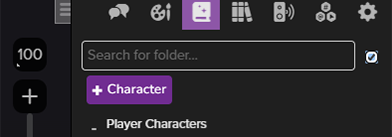
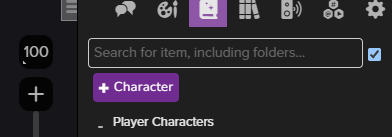
replace folderSearch logic with universal search for item, including folders

diff --git a/content/content.js b/content/content.js
@@ -24,35 +24,29 @@ function createSearchBox() {
     searchBox.style.border = "1px solid #ccc";
     searchBox.style.borderRadius = "4px";
     searchBox.style.fontSize = "14px";
+    
     return searchBox;
 }
 
 function createModeSwitch() {
     const modeSwitchWrapper = document.createElement("div");
-    modeSwitchWrapper.style.margin = "5px 0";
-    modeSwitchWrapper.style.marginLeft = "10px";
+    modeSwitchWrapper.style.margin = "5px";
 
     const label = document.createElement("label");
     label.style.marginRight = "10px";
 
     const modeSwitch = document.createElement("input");
     modeSwitch.type = "checkbox";
-    modeSwitch.id = "searchModeSwitch";
+    modeSwitch.id = "journalSearchModeSwitch";
     modeSwitch.style.marginRight = "5px";
-    
-    const modeText = document.createElement("span");
-    modeText.id = "modeText";
 
     modeSwitch.addEventListener("change", () => toggleSearchMode(modeSwitch.checked));
 
     modeSwitchWrapper.appendChild(label);
     modeSwitchWrapper.appendChild(modeSwitch);
-    modeSwitchWrapper.appendChild(modeText);
 
     return modeSwitchWrapper;
 }
-
-let searchByFolder = false;
 
 function searchFolders(filter) {
     const folders = document.querySelectorAll("#journal .content .dd-folder");
@@ -62,14 +56,18 @@ function searchFolders(filter) {
         if (!titleElement) return;
 
         const title = titleElement.textContent.toLowerCase();
-
-        if (title.includes(filter)) {
-            console.log(`found folder: ${titleElement.textContent}`);
-            folder.style.display = "";
-            printAndShowSubfoldersAndItems(folder, "  ");
-            showParentFolder(folder);
+        const matches = title.includes(filter);
+        
+        if (matches) {
+            showFullFolderHierarchy(folder);
         }
     });
+}
+
+function showFullFolderHierarchy(folder) {
+    folder.style.display = "";
+    showParentFolder(folder);
+    showFolderContentsRecursive(folder);
 }
 
 function showParentFolder(folder) {
@@ -80,27 +78,13 @@ function showParentFolder(folder) {
     }
 }
 
-function printAndShowSubfoldersAndItems(folder, indent) {
+function showFolderContentsRecursive(folder) {
+    folder.style.display = "";
     const subfolders = folder.querySelectorAll(":scope > .dd-list > .dd-folder");
-
-    subfolders.forEach(subfolder => {
-        const subfolderTitle = subfolder.querySelector(".folder-title");
-        if (subfolderTitle) {
-            console.log(`${indent}├─ folder: ${subfolderTitle.textContent}`);
-            subfolder.style.display = "";
-            printAndShowSubfoldersAndItems(subfolder, indent + "  ");
-        }
-    });
+    subfolders.forEach(subfolder => showFolderContentsRecursive(subfolder));
 
     const items = folder.querySelectorAll(":scope > .dd-list > .journalitem");
-
-    items.forEach(item => {
-        const itemTitle = item.querySelector(".namecontainer");
-        if (itemTitle) {
-            console.log(`${indent}└─ Item: ${itemTitle.textContent}`);
-            item.style.display = "";
-        }
-    });
+    items.forEach(item => item.style.display = "");
 }
 
 function searchEntries(filter) {
@@ -120,24 +104,18 @@ function searchEntries(filter) {
 function filterEntries() {
     const filter = document.getElementById("journalSearch").value.toLowerCase();
     
+    searchEntries(filter);
     if (searchByFolder) {
-        searchEntries(filter);
         searchFolders(filter);
-    } else {
-        searchEntries(filter);
     }
 }
 
 function toggleSearchMode(isFolderSearch) {
     searchByFolder = isFolderSearch;
     const searchBox = document.getElementById("journalSearch");
-
-    if (searchByFolder) {
-        searchBox.placeholder = "Search for folder...";
-    } else {
-        searchBox.placeholder = "Search for item...";
-    }
-
+    const modeSwitch = document.getElementById("journalSearchModeSwitch");
+    modeSwitch.checked = searchByFolder;
+    searchBox.placeholder = searchByFolder ? "Search for item, including folders..." : "Search for item...";
     filterEntries();
 }
 
@@ -146,13 +124,17 @@ function addSearchBox() {
         if (!document.getElementById("journalSearch")) {
             const searchBox = createSearchBox();
             const modeSwitch = createModeSwitch();
+            
             const container = document.createElement("div");
             container.style.display = "flex";
             container.style.alignItems = "center";
             container.appendChild(searchBox);
             container.appendChild(modeSwitch);
+            
             creationControls.parentNode.insertBefore(container, creationControls);
             searchBox.addEventListener("keyup", filterEntries);
+
+            toggleSearchMode(true);
         }
     });
 }
@@ -167,6 +149,8 @@ function observeDOMChanges() {
     const observer = new MutationObserver(() => addSearchBox());
     observer.observe(document.body, { childList: true, subtree: true });
 }
+
+let searchByFolder = false;
 
 observeJournalTab();
 observeDOMChanges();

diff --git a/README.md b/README.md
@@ -15,7 +15,7 @@ This browser extension adds a search bar to the Roll20 journal, allowing you to 
 You can type in the search box to filter entries in real-time. The mode switch allows you to toggle between two search modes:
 
 - **Entry Search**: Filters individual journal entries (characters, handouts, notes) based on the search term. Only entries that match the search term will be displayed, and folders containing no matching entries will be hidden.
-- **Folder Search**: Filters folders based on the search term. Folders that match the search term will be displayed along with their contents, and all parent folders will be shown to maintain the folder hierarchy.
+- **Search by Item, Including Folders**: Filters both individual entries and folders based on the search term. Folders that match the search term will be displayed along with their contents, and all parent folders will be shown to maintain the folder hierarchy. This is the default mode and should fit most use cases unless there are certain folders named like items.
 
 ## Installation
 1. Download the ZIP file from the [latest release](https://github.com/Wholffe/Roll20JournalSearch/releases).
